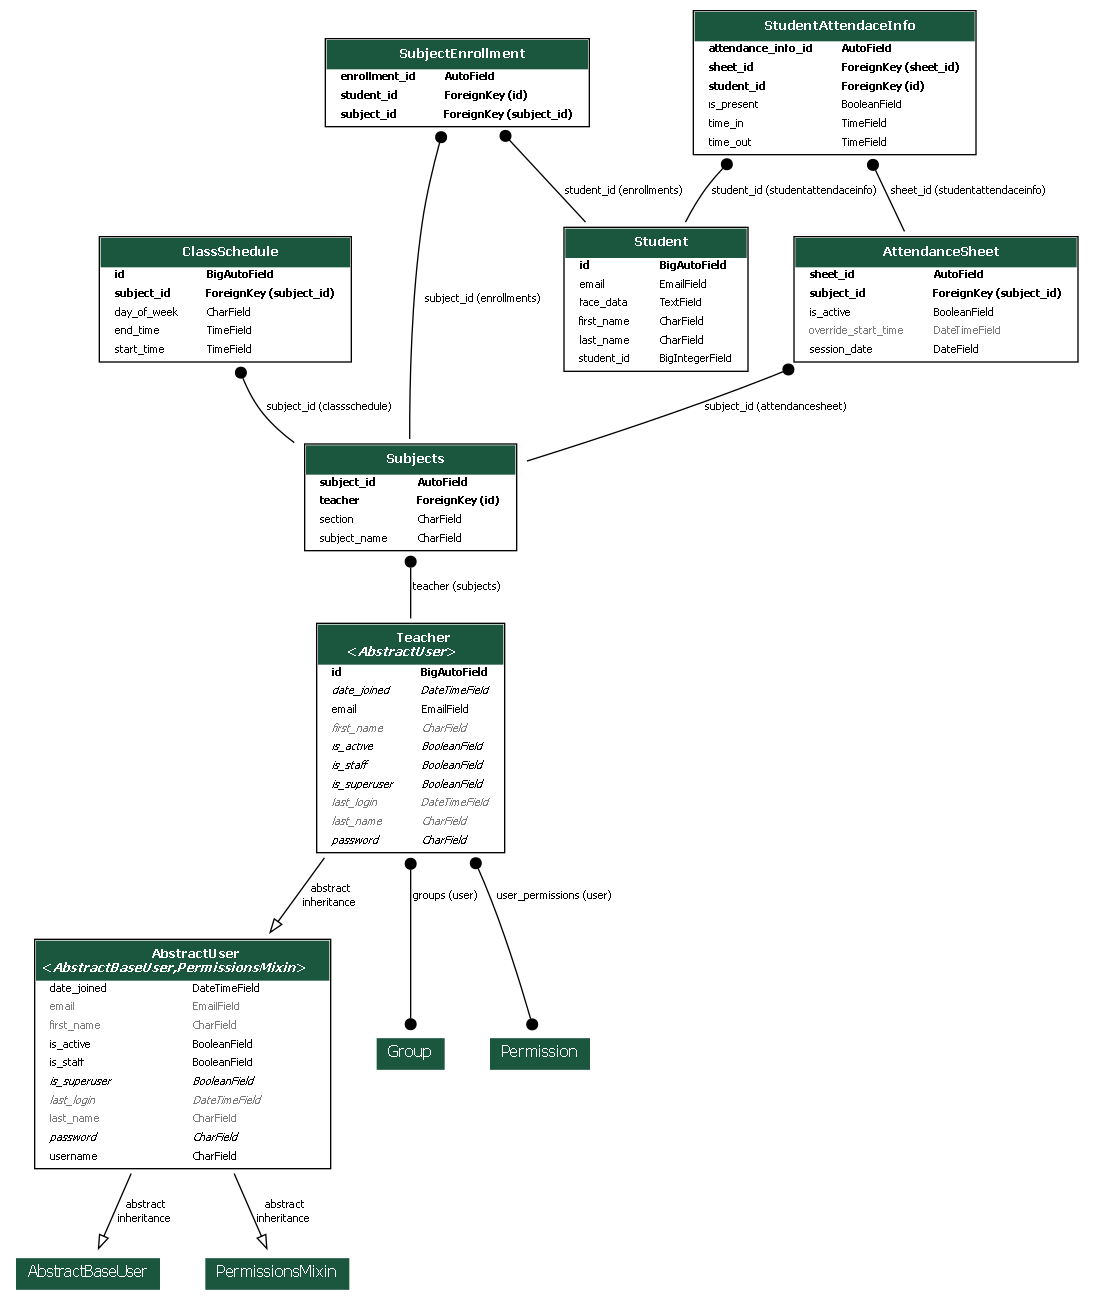
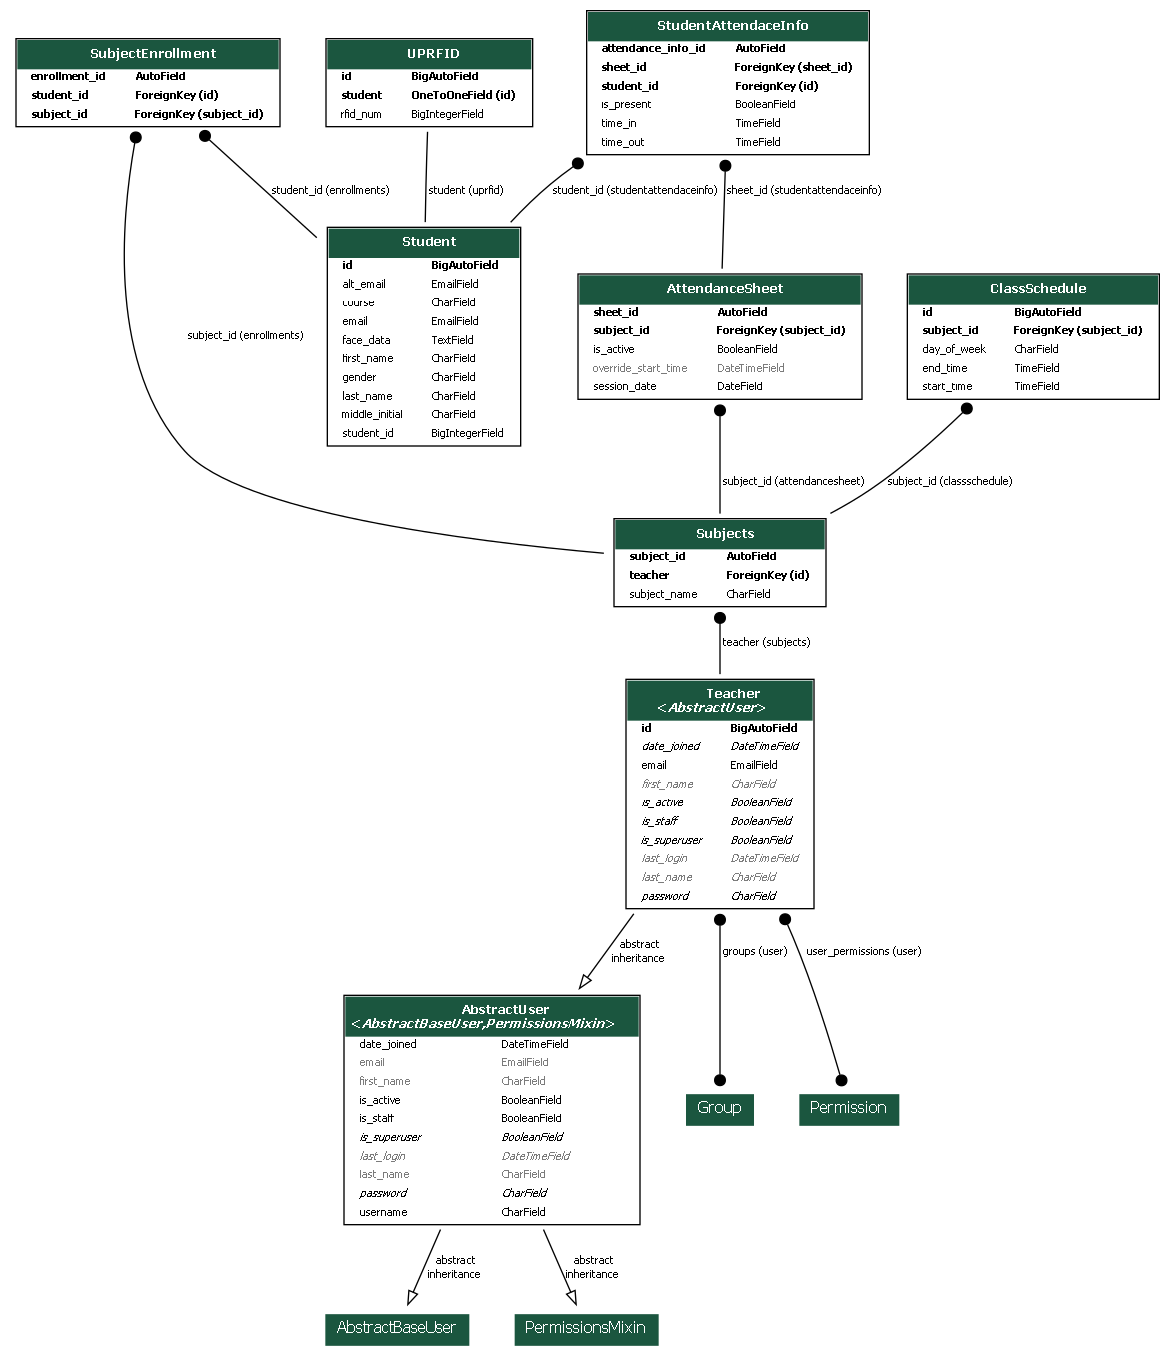
update

diff --git a/frontend/components/StudentForm.vue b/frontend/components/StudentForm.vue
@@ -304,7 +304,6 @@ async function onSubmit(event: FormSubmitEvent<Schema>) {
                     </UButton>
                     <UButton type="submit" variant="solid" size="sm" icon="i-heroicons-check-circle-20-solid" :loading="submitState" :disabled="selected.length === 0">
                         {{ route.params.id ? 'Update' : 'Register' }}
-                        Submit
                     </UButton>
                 </div>
             </template>

diff --git a/paper/SP_Final_template/chapter_4.tex b/paper/SP_Final_template/chapter_4.tex
@@ -1,24 +1,33 @@
 %   Filename    : chapter_4.tex 
 \chapter{System Architecture and Model Evaluation}
-
 \section{System Architecture}
 Using the tools mentioned in Section~\ref{sec:devtools}, our system can be visualized as shown in Figure \ref{fig:architecture}: 
 \begin{figure}[h] % 'h' places the figure approximately here in the text
 	\centering
-	\includegraphics[width=0.8\textwidth]{figures/chapter4/architecture.png} % Adjust width as needed
+	\includegraphics[width=0.55\textwidth]{figures/chapter4/architecture_new.png} % Adjust width as needed
 	\caption{System Architecture}
 	\label{fig:architecture}
 \end{figure}
+All of the software and services are running in the Raspeberry Pi 5. We have no online dependencies except the Hero icons which are MIT licensed and free to use.
 
-Currently, we use the DeepFace library for face recognition as a temporary measure to test our system while our own face recognition model is in the works.
-\section{Process Diagrams}
-
-\subsection{Faculty CSV Import Process}
-To make the registration of the students much easier for the faculty, the faculty members can upload a CSV file containing the students' required details. The system parses the CSV file and stores the extracted data in the database. The data uploaded is validated to avoid any duplicate or wrong entries.
+\section{Process Diagram}
 
 \subsection{Student Registration Process}
-Students must register their facial ID to enable attendance verification. This registration process only captures one facial image, which will be used to identify the student during attendance tracking. 
+Students must register their facial ID to enable attendance verification. This registration process only captures one facial image, which will be used to identify the student during attendance tracking. It also takes all relevant info about the student, reflecting the fields given by the generated class list of CRS. It will be handled by Nuxt at endpoint: \url{http://raspberry_ip:3000/public/register. }
+\begin{figure}[h] % 'h' places the figure approximately here in the text
+	\centering
+	\includegraphics[width=0.55\textwidth]{figures/chapter4/student_form_pc.png} % Adjust width as needed
+	\caption{Form in desktop client. Face data defaults to file picker. It will still check for faces in the image.}
+	\label{fig:student_form_pc}
+\end{figure}
 
+\begin{figure}[h] % 'h' places the figure approximately here in the text
+	\centering
+	\includegraphics[width=0.55\textwidth]{figures/chapter4/student_form_mobile.jpg} % Adjust width as needed
+	\caption{Form in mobile devices. Face data will use the native camera instead. It will then detect faces from the image provided.}
+	\label{fig:student_form_pc}
+\end{figure}
+\clearpage
 \subsection{Time In Process}
 Time in process includes a check if the student already has time in records. First step in this is the student tapping the ID to the RFID sensor and trigger the photo capture to check the face.
 \begin{figure}[h] % 'h' places the figure approximately here in the text
@@ -64,14 +73,13 @@ SQL equivalent would be:
 	CONSTRAINT unique_email UNIQUE (email)
 	);
 \end{verbatim}
-\subsection{Database Tables}
-Our database tables that can be accessed by Django's ORM. This includes the tables for Teachers, Subjects and tables for relationships. See Figure
-\ref{fig:dbtables}
+\subsection{Database Table}
+The database tables are automatically generated using django-extensions module. It reads all the Model classes in our Django project and generates the connections between tables.
 \begin{figure}[h] % 'h' places the figure approximately here in the text
 	\centering
-	\includegraphics[width=0.8\textwidth]{figures/chapter4/dbtables.png} % Adjust width as needed
-	\caption{Database Tables}
-	\label{fig:dbtables}
+	\includegraphics[width=0.8\textwidth]{figures/chapter4/db_tables.png} % Adjust width as needed
+	\caption{System Architecture}
+	\label{fig:db_tables}
 \end{figure}	
 
 \subsection{REST API by Django Ninja}
@@ -93,14 +101,24 @@ Figure~\ref{fig:admin} is the Django administration page only accessible to a su
 \end{figure}
 
 \section{Nuxt Frontend}
-With the backend handling most of the heavy work, the frontend only needs to capture images from the camera and sending them to the backend to verify student identity. The localhost:3000/dashboard/time-in-out page handles the time in and time out process.
+The Nuxt web interface functions as the main UI with out system. It handles faculty onboarding and CSV imports of their class list from the CRS. It also has student management system for the basic CRUD operations for students' information.
+\subsection{Faculty CSV Import Process}
+To make the registration of the students much easier for the faculty, the faculty members can upload a CSV file containing the students' required details. The system parses the CSV file and stores the extracted data in the database. The data uploaded is validated to avoid any duplicate or wrong entries. The backend creates entries in the SubjectEnrollment table to tie each Student to a Subject. See Figure \ref{fig:faculty_import}
+\begin{figure}[h] % 'h' places the figure approximately here in the text
+	\centering
+	\includegraphics[width=0.8\textwidth]{figures/chapter4/faculty_import.png} % Adjust width as needed
+	\caption{Faculty Import using CSV}
+	\label{fig:faculty_import}
+\end{figure}
+\subsection{Web equivalent of the time-in and time-out process}
+It also has a web equivalent of the PyQT5 time-in and time-out processing, albeit much slower. See Figures \ref{fig:faculty_import} and \ref{fig:frontend}.
 \begin{figure}[h] % 'h' places the figure approximately here in the text
 	\centering
 	\includegraphics[width=1.0\textwidth]{figures/chapter4/frontend.png} % Adjust width as needed
 	\caption{Time in and Time out Page}
 	\label{fig:frontend}
 \end{figure}
-The RFID input is automatically highlighted upon opening the page so it will be immediately ready to take in input from the RFID scanner. When the proper number length is inputted, it will immediately start to verify the identity. It will then notify the student for the time in/time out time and status. It will also notify for any errors like spoof image or no face detected. From our testing, the response time is currently at most 2.3 seconds, most of the delay comes from the fake delay we used to allow the student to read the notification after verification.
+
 \begin{figure}[h] % 'h' places the figure approximately here in the text
 	\centering
 	\includegraphics[width=1.0\textwidth]{figures/chapter4/success.png} % Adjust width as needed
@@ -112,12 +130,6 @@ The RFID input is automatically highlighted upon opening the page so it will be 
 	\includegraphics[width=0.75\textwidth]{figures/chapter4/backendrecord.png} % Adjust width as needed
 	\caption{Django saving the attendance time instance in 24-hr format}
 	\label{fig:record}
-\end{figure}
-\begin{figure}[h] % 'h' places the figure approximately here in the text
-	\centering
-	\includegraphics[width=0.5\textwidth]{figures/chapter4/delay.png} % Adjust width as needed
-	\caption{Fake Delay}
-	\label{fig:delay}
 \end{figure}
 
 \clearpage
